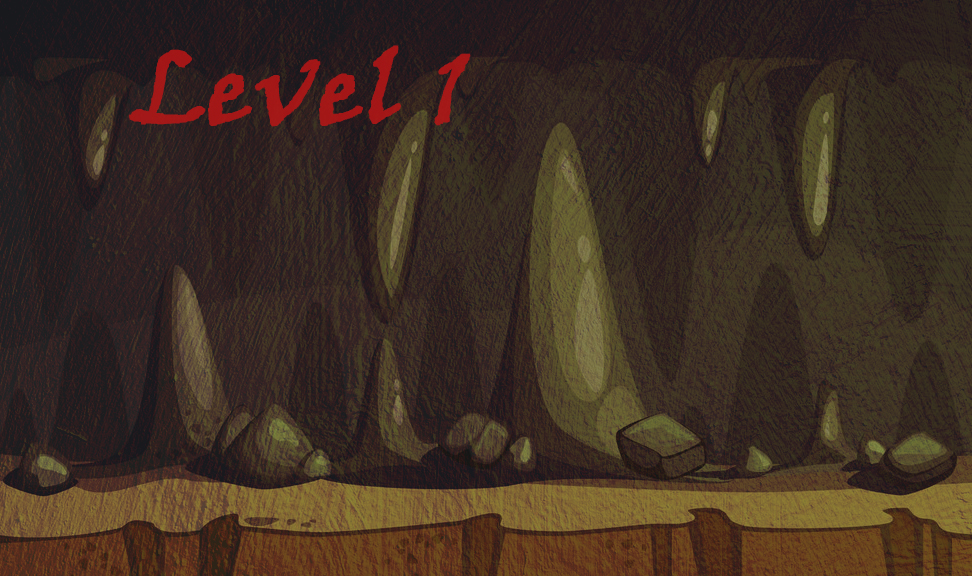
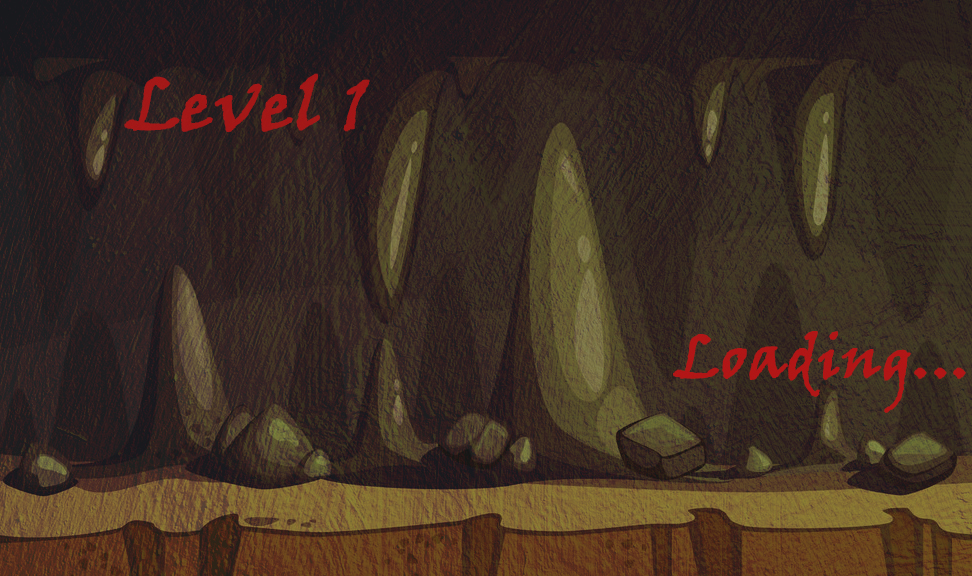
Metido la nueva pantalla de carga de level 1

diff --git a/sourcefiles/Mundo.cpp b/sourcefiles/Mundo.cpp
@@ -536,7 +536,7 @@ void Mundo::camUpdate(const glm::f32 frameDeltaTime){
 
         case 4: // PANTALLA DE CARGA
         {
-            cam->setPosicion(vec3(59,5000*posopc,-23));
+            cam->setPosicion(vec3(58,5000*posopc,-23));
             break;
         }
 
@@ -603,7 +603,6 @@ void Mundo::cargarLogicaNivel()
 {
     TiXmlDocument doc;
 
-cout<<"entro2"<<endl;
      switch(nivel){
 
         case 1: 
